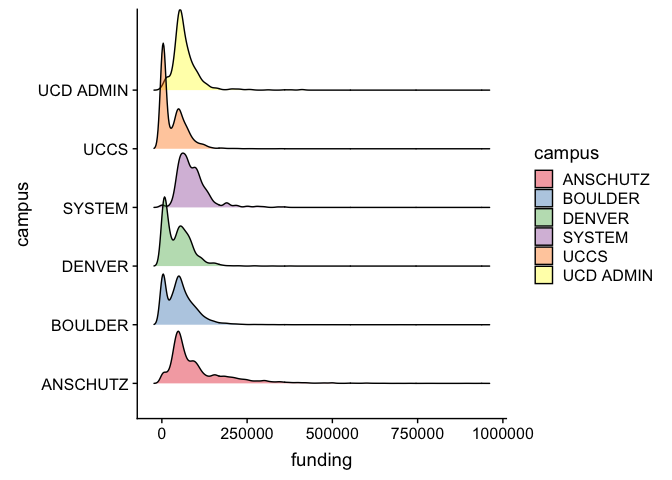
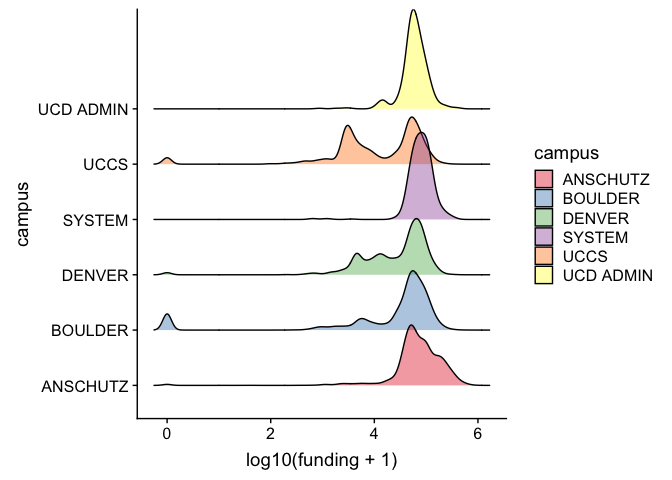
transform

diff --git a/README.md b/README.md
@@ -26,7 +26,7 @@ library(cowplot)
 library(ggridges)
 
 cu_personnel %>%
-  ggplot(aes(x = funding, y = campus, fill = campus)) +
+  ggplot(aes(x = log10(funding + 1), y = campus, fill = campus)) +
   geom_density_ridges(alpha = 0.4) + 
   scale_fill_brewer(palette = "Set1")
 ```
